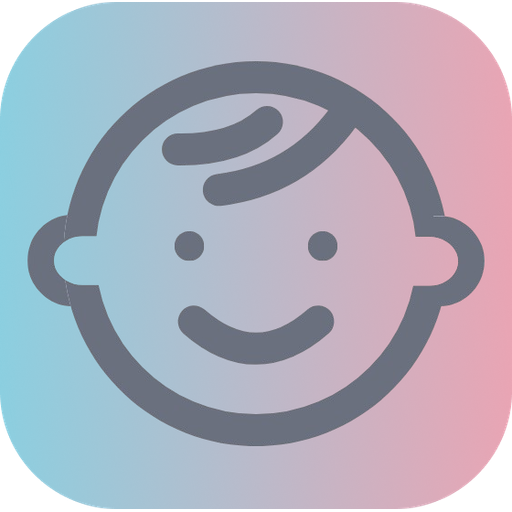
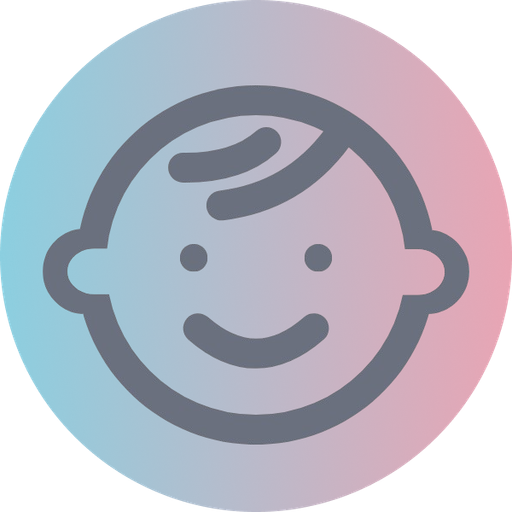
first commit

diff --git a/app/components/Header.tsx b/app/components/Header.tsx
@@ -26,9 +26,8 @@ export function Header() {
           className="flex items-center space-x-2 sm:space-x-3 cursor-pointer group flex-shrink-0"
           onClick={() => router.push('/')}
         >
-          <div className="flex items-center justify-center w-9 h-9 sm:w-10 sm:h-10 rounded-xl bg-gradient-to-br from-[#8CCFE0] to-[#E9A5B4] text-gray-800 shadow-lg group-hover:shadow-xl transition-shadow">
-            <img src="/logo.png" alt="Peque Diario" width={34} height={34} />
-          </div>
+          <img src="/logo.png" alt="Peque Diario" width={40} height={40} />
+          
           <div className="flex flex-col">
             <h1 className="text-base sm:text-xl font-bold">
               <span className="bg-gradient-to-r from-[#8CCFE0] to-[#E9A5B4] bg-clip-text text-transparent">Peque</span>
